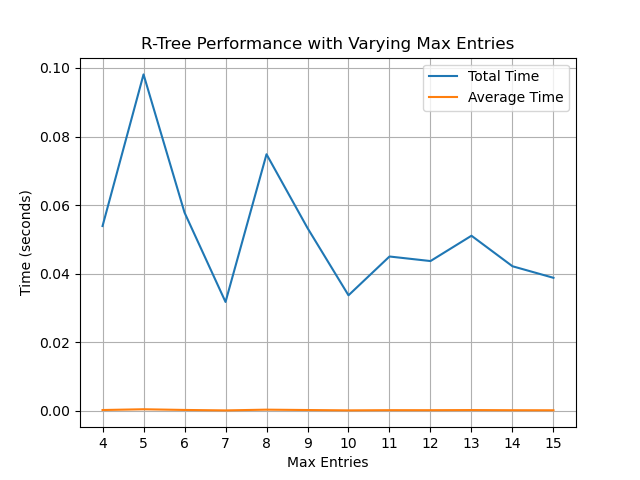
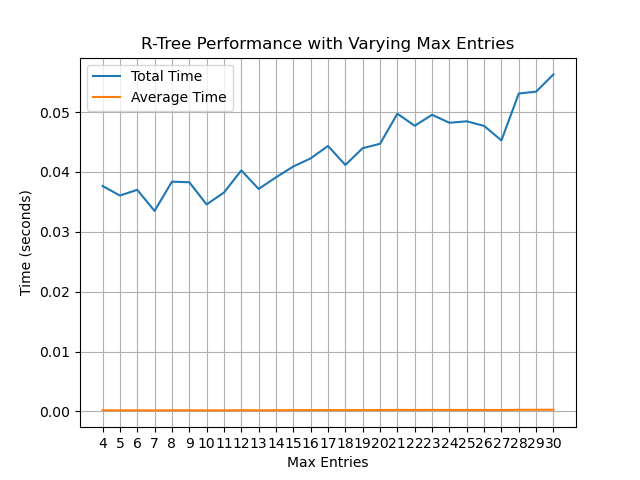
Update performance metrics and results for nearest neighbor search methods

diff --git a/visualisation.py b/visualisation.py
@@ -85,25 +85,26 @@ def plot_node(node, ax, depth=0):
     #print("depth=", depth, "MBR=", node.MBR)
     if node.is_leaf:
         # plot all its points
-        xs = [p.x for p in node.data_points]
-        ys = [p.y for p in node.data_points]
-        #ax.scatter(xs, ys, c='green', zorder=5)
+        xs = [p.x for p in node.entries]
+        ys = [p.y for p in node.entries]
+        ax.scatter(xs, ys, c='green', zorder=5)
         #print("data points=", node.data_points)
 
     else:
         # recurse
-        for child in node.child_nodes:
+        for child in node.entries:
             plot_node(child, ax, depth+1)
 def find_best_max_entries(data_points, query_points):
     # Example: find the best max_entries for the R-Tree
     # This is a placeholder function. You can implement your own logic to find the best max_entries.
     # For example, you can use cross-validation or other techniques to find the best max_entries.
     results = []
-    for i in tqdm(range(4, 15+1), desc="Finding best max_entries", unit="max_entries"):
+    for i in tqdm(range(4, 30+1), desc="Finding best max_entries", unit="max_entries"):
         # Create an R-Tree with the current max_entries
         rtree = RTree(max_entries=i)
         # Insert the data points into the R-Tree
-        rtree.fit(data_points, show_progress=False)
+        #rtree.fit(data_points, show_progress=False)
+        rtree.bulk_load(data_points)
         # Measure the time taken for nearest neighbor search
         total_start_time = time.time()
         for query_point in query_points:
@@ -143,9 +144,10 @@ def main():
     best_max_entries = results[-1][0]
     #best_max_entries=10
     rtree = RTree(max_entries=best_max_entries)
-    rtree.fit(data_points)
-    
+    #rtree.fit(data_points)
+    rtree.bulk_load(data_points)
+
     # Plot the R-Tree structure
-    plot_rtree(rtree, results_dir, minmax)
+    #plot_rtree(rtree, results_dir, minmax)
 if __name__ == "__main__":
     main()
